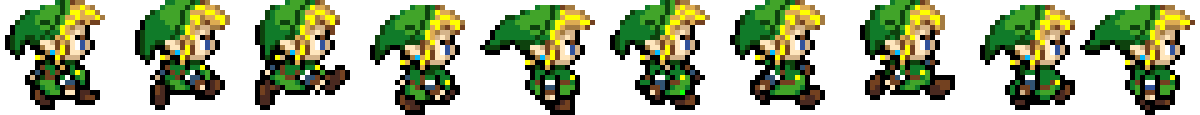
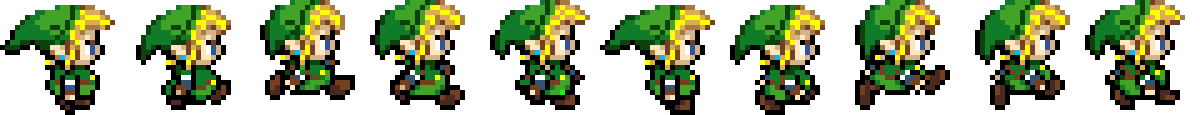
fix run right animation; fix animation loop code

diff --git a/Game.html b/Game.html
@@ -16,7 +16,7 @@
 			var left= false, right= false, up= false, down= false;
 			
 			
-			var player = { x: 50, y: 75, w: 60 , h: 65, dx: 2, dy: 2 };
+			var player = { x: 50, y: 75, w: 60 , h: 65, dx: 5, dy: 5 };
 
 			var count = 0;
 			var spriteX;
@@ -258,12 +258,12 @@
 				spriteWait -= spriteElapsed;
 				spriteLastTime = curTime;
 
-				if(count == 9)
-					count = 0;
-				else if ( spriteWait <= 0 && count != 9) {
+				if ( spriteWait <= 0 && count != 9) {
 					count++;
 					spriteWait = 100;
-				}		
+				}
+				else if(count == 9)
+					count = 0;
 			}
 				
 			function drawPlay(ctx) {
